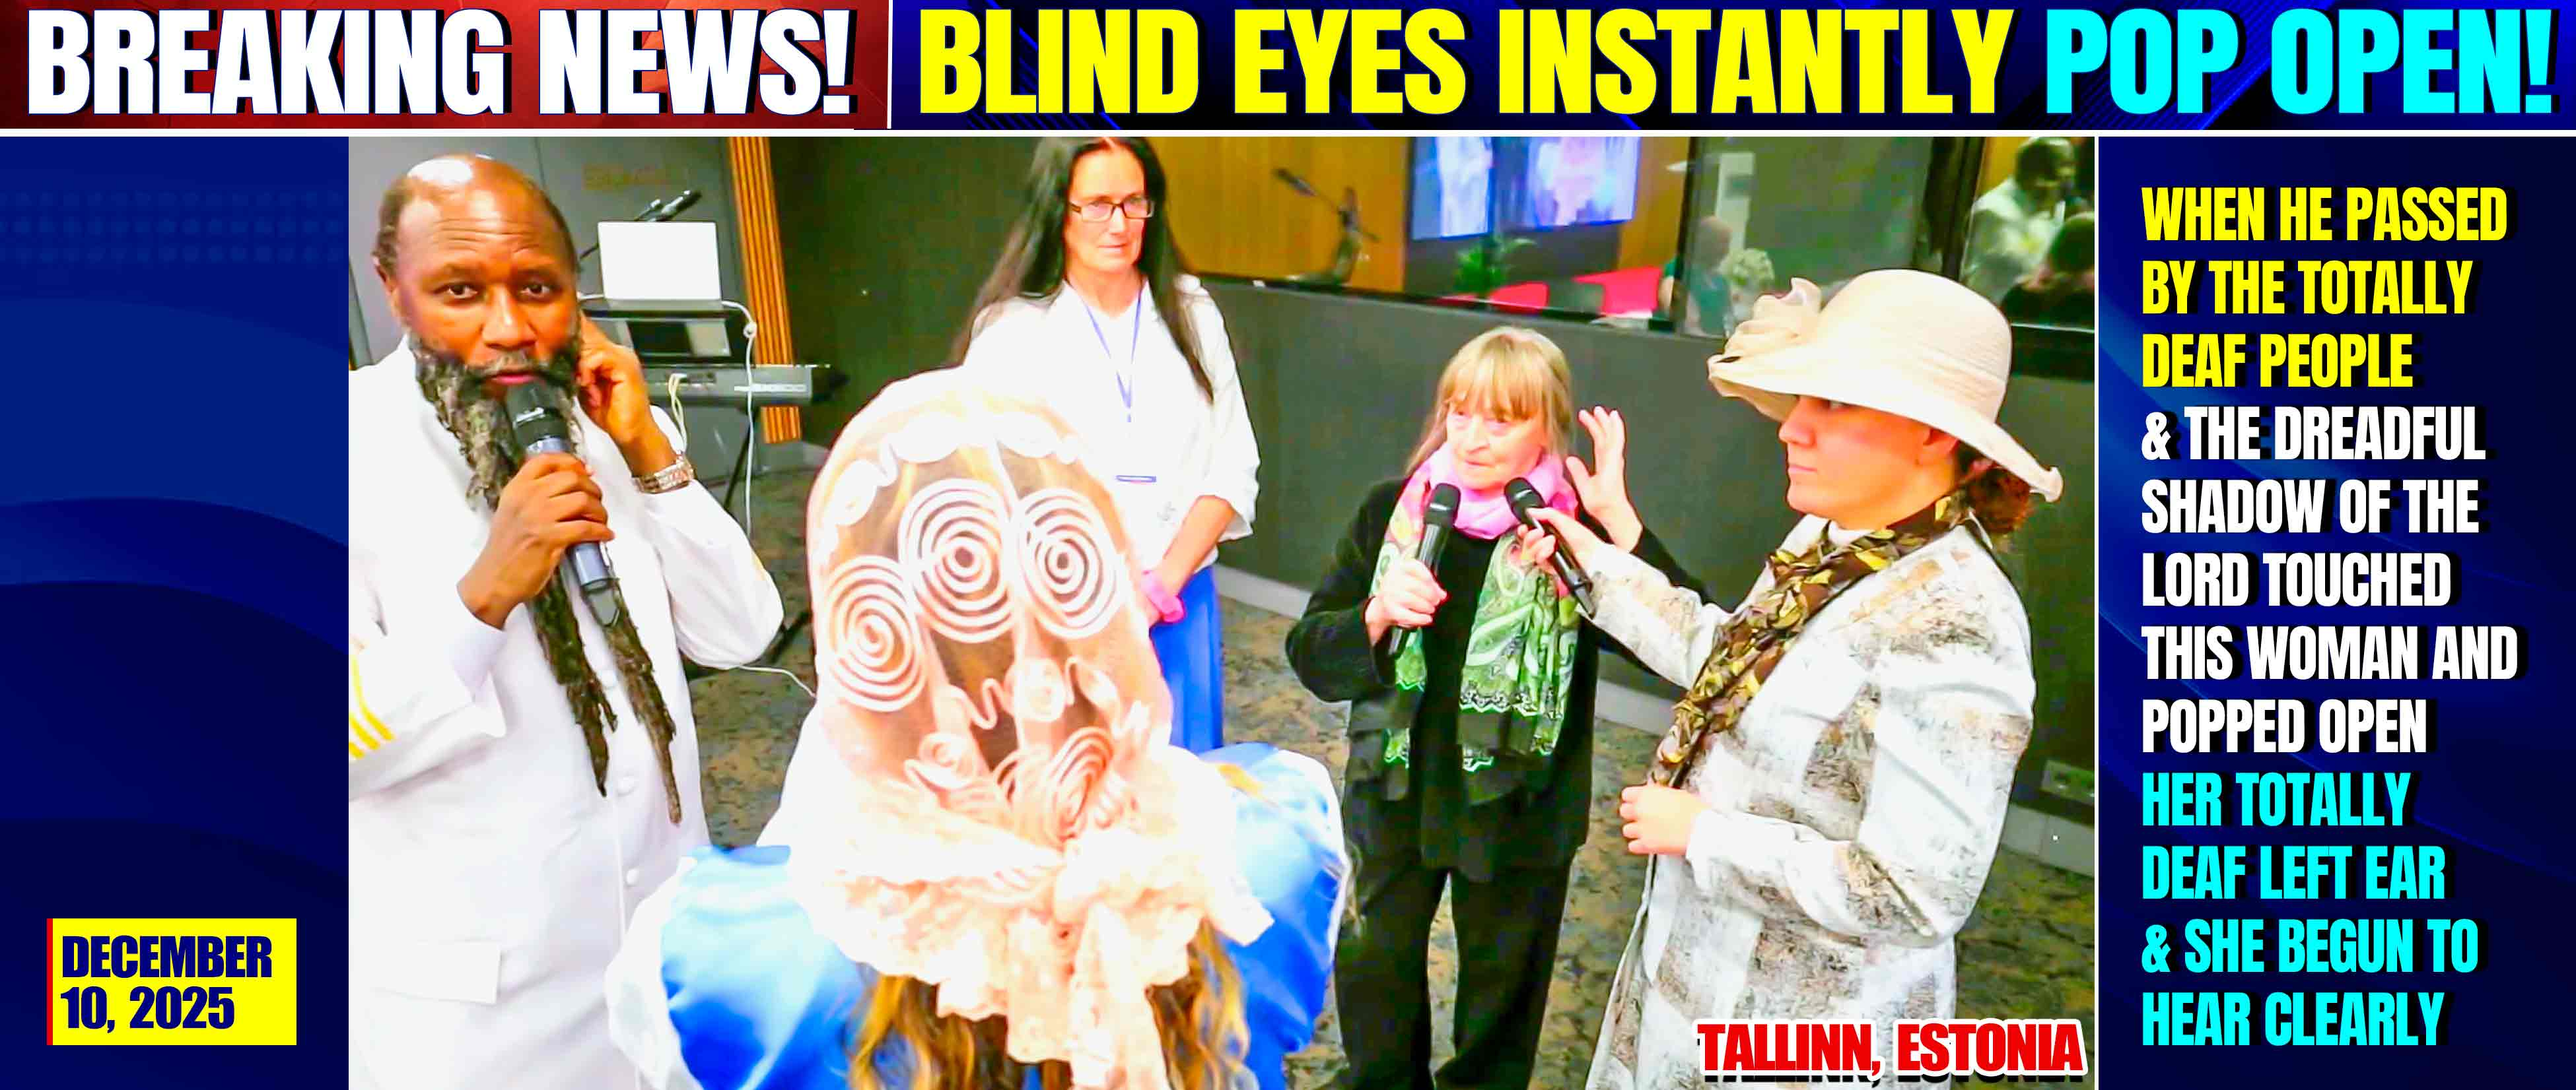
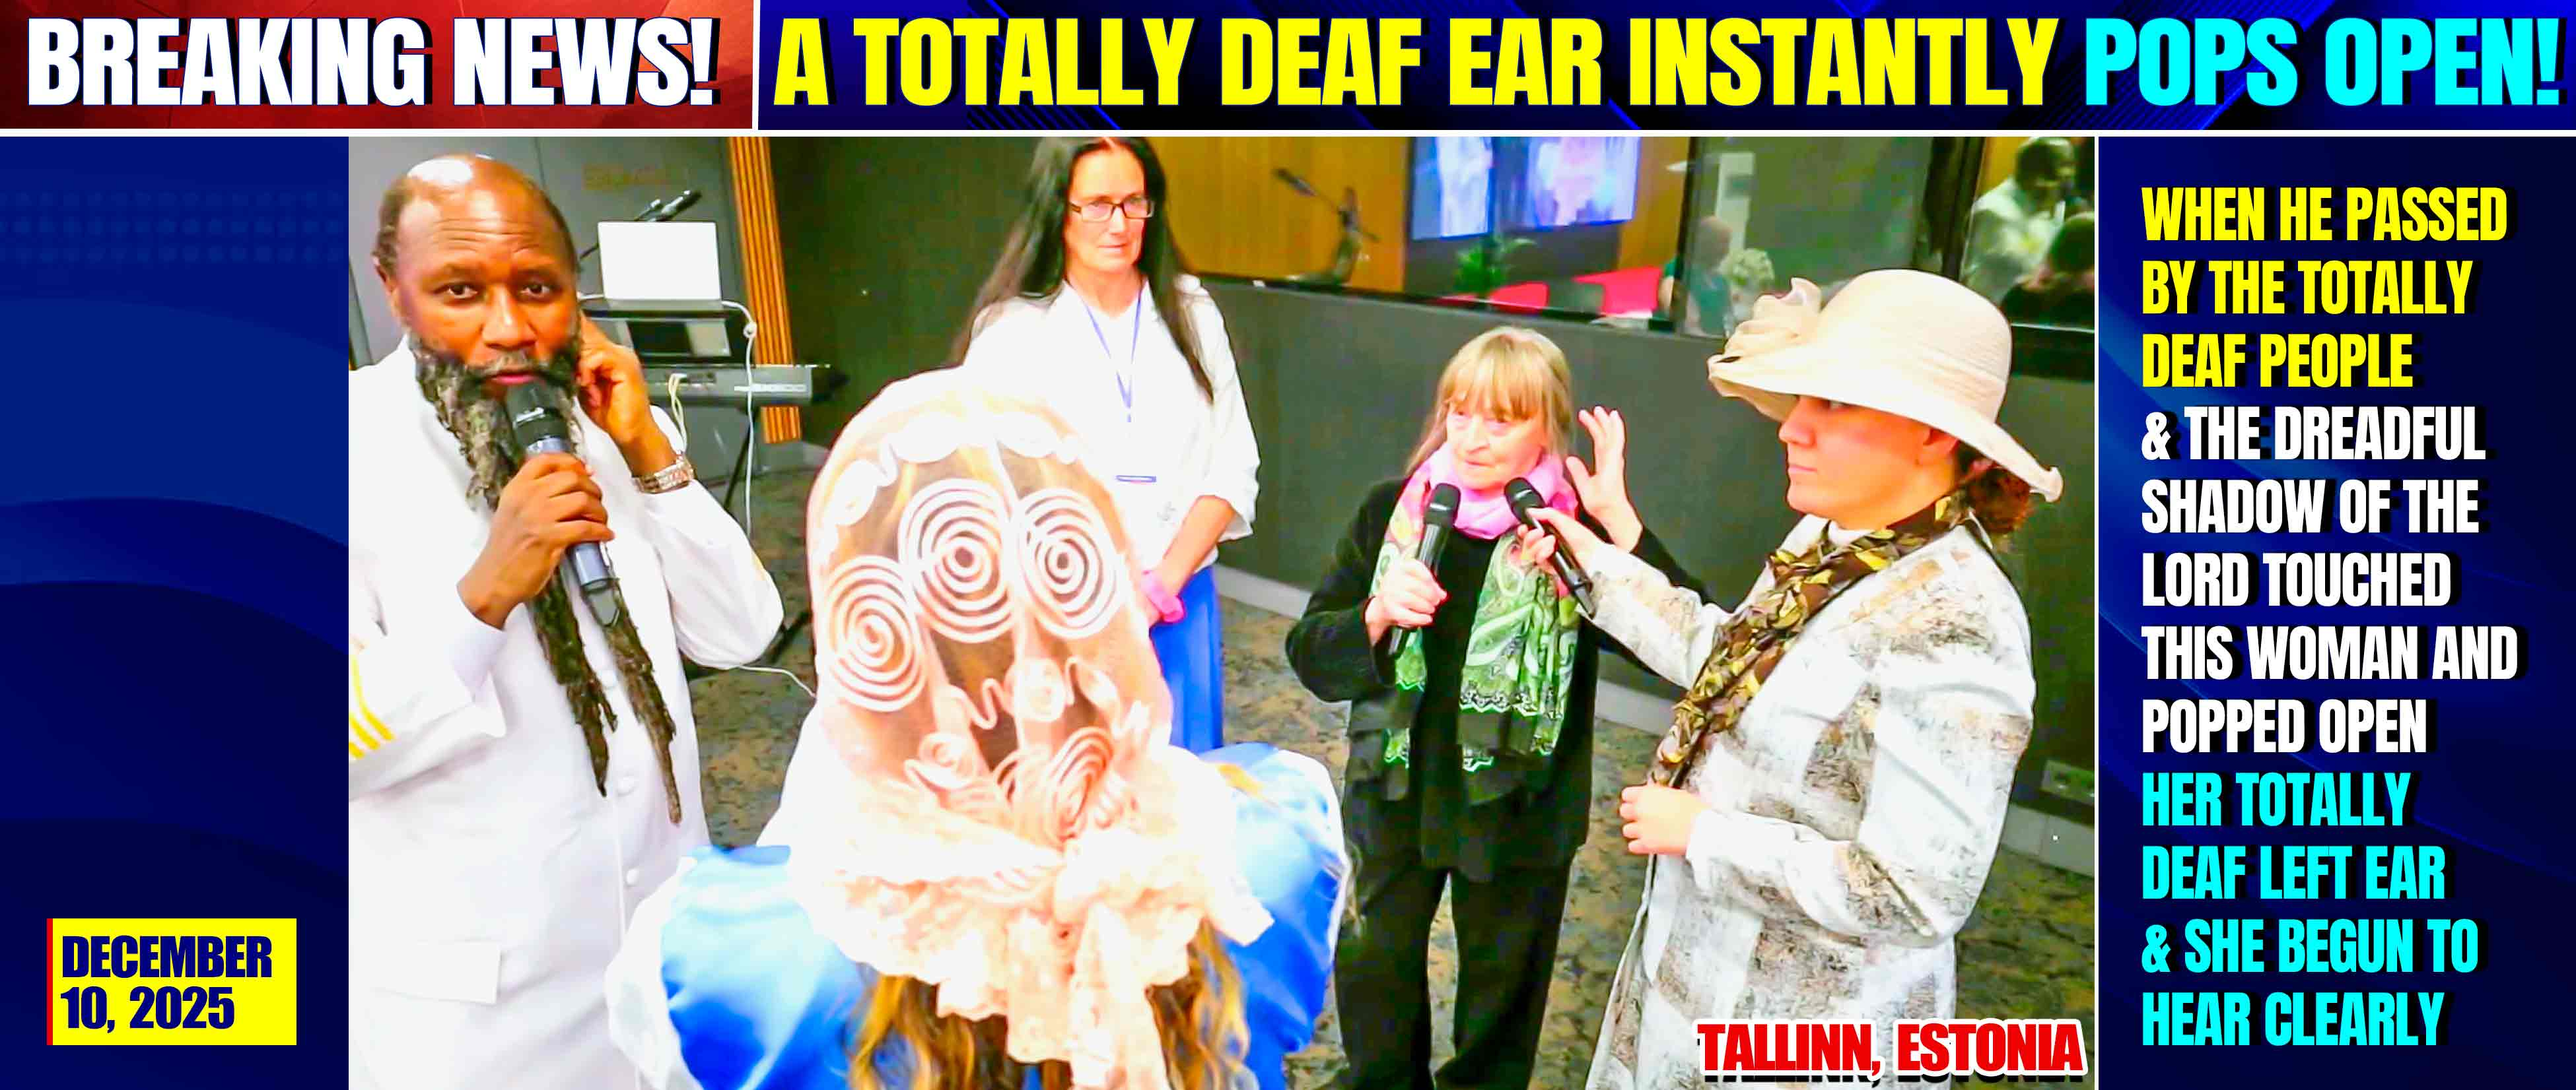
new

Changed region(s): [[0.0, 0.0, 1.0, 0.1235]]

diff --git a/index.html b/index.html
@@ -15,7 +15,7 @@
 <img class="slideshow" src= "https://pub-9f92551086574e82abebdc7b9c83cf92.r2.dev/Estonia/3.%20Estonia/Crowd-3.jpg" alt="Unstable internet, please refresh the browser">
 
 
-<img class="slideshow" src= "https://pub-9f92551086574e82abebdc7b9c83cf92.r2.dev/Estonia/3.%20Estonia/Crowd-3.jpg" alt="Unstable internet, please refresh the browser">
+<img class="slideshow" src= "https://pub-9f92551086574e82abebdc7b9c83cf92.r2.dev/Estonia/3.%20Estonia/DEAF-1.jpg" alt="Unstable internet, please refresh the browser">
 
 
 
